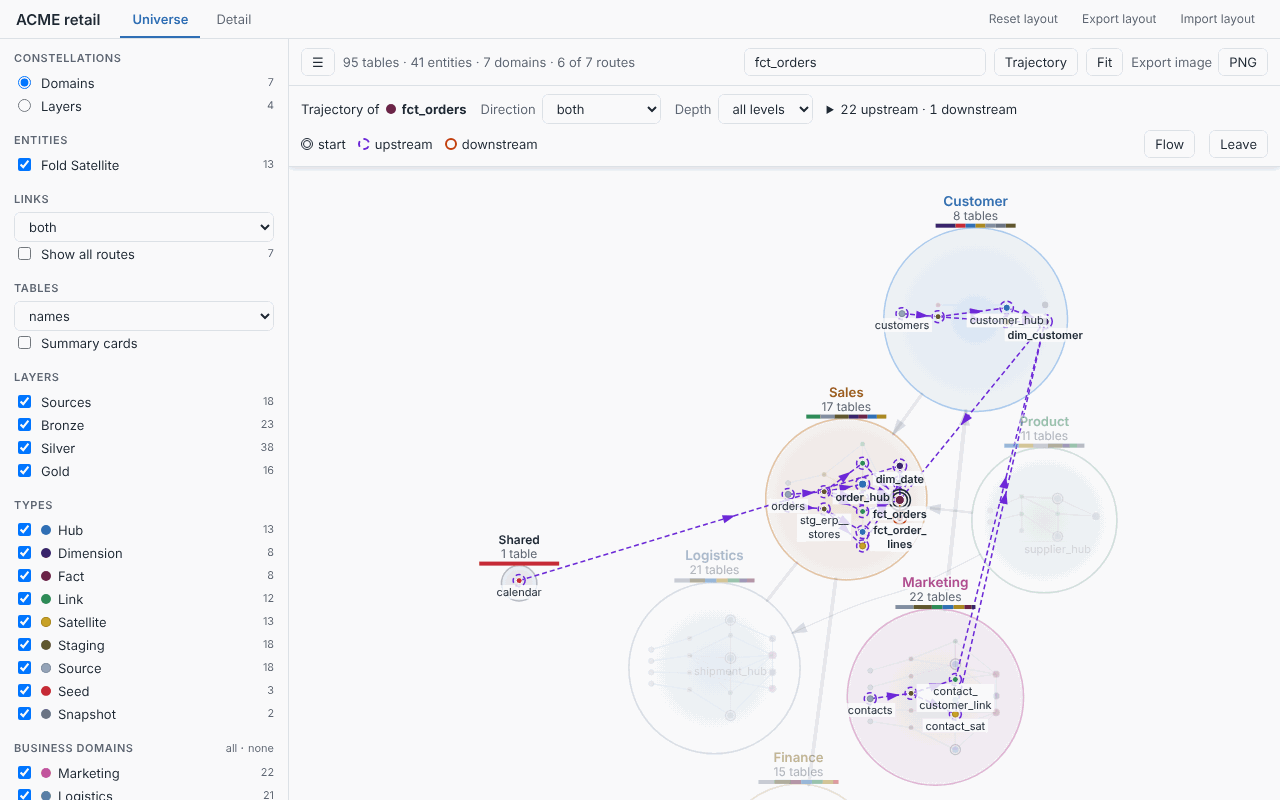
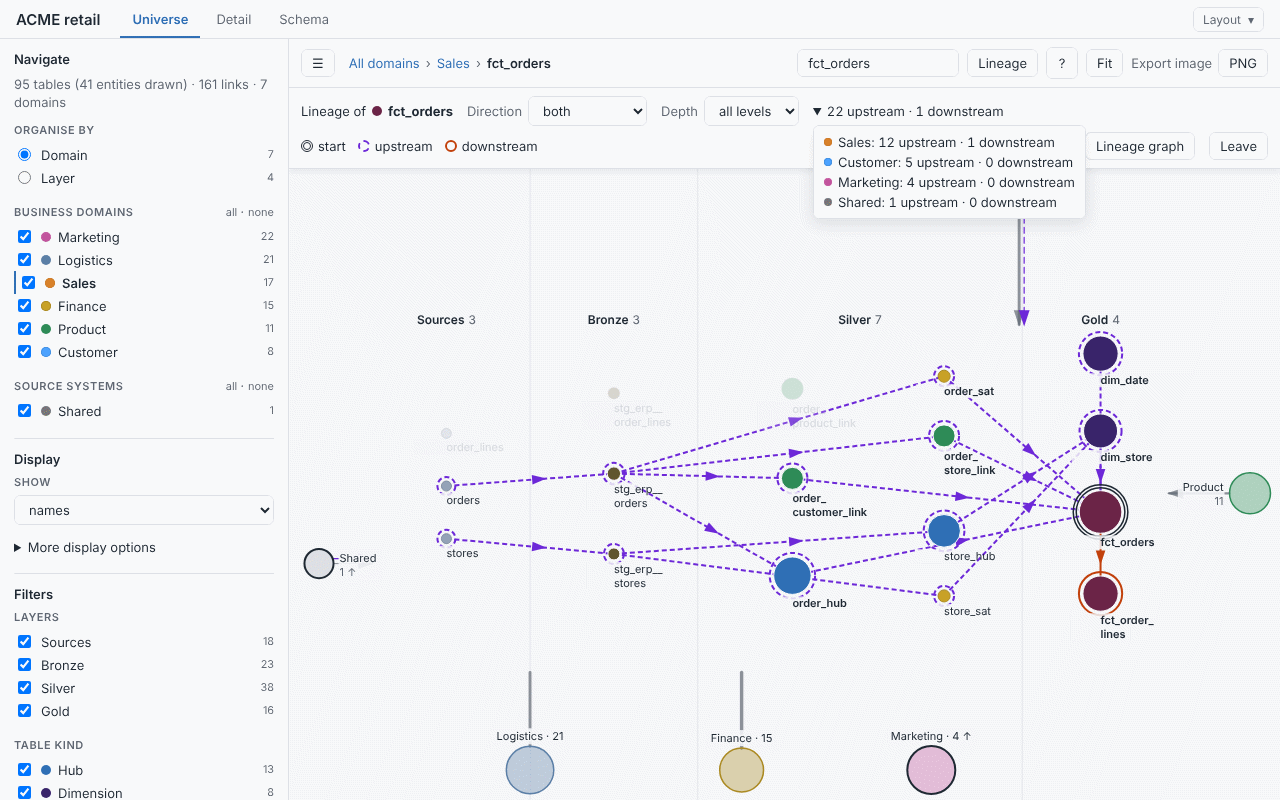
docs(docs): retake the screenshots for M9 and add three new ones
The images of docs/images showed the pre-M9 page (old words, no map
landing, click-starts-lineage). The ten are retaken with the current
page and three are added from the large project: the table panel
inside Vehicle, the Schema tab on Vehicle at key columns and the Print
dialog with its size statement. The user guide references them, its
captions follow the new states; the images README gives each recipe.
Progress, roadmap and changelog record the M9 close; the UI review's
status lines are final. Approval of the images by the user: pending.

Milestone: M9

Claude-Session: https://claude.ai/code/session_01SqA5qnVCkux94yvj6m2c5x

diff --git a/docs/user-guide.md b/docs/user-guide.md
@@ -783,11 +783,11 @@ Every model, source, seed and snapshot of the project as a star, grouped into on
 - **The same picture every time**: the same project gives the same placement at every generation.
 - **The map of a large project**: a project of more than `universe.map_above` tables (300 by default) opens on a **map**: each domain is a named disc (name, number of tables, bar of kinds), with the dependencies between them, and no star or table name until you go into a domain ([Entering a domain](#entering-a-domain)). A smaller project opens on its stars, as before.
 
-![The Sales domain at the keys level: sources and Bronze on the left, then Silver (hubs, links, satellites), then Gold (dimensions and facts)](images/universe-domain.png)
-
 ### Entering a domain
 
 On the map, **click a domain** (its disc, its card, a row of its card, its name in the panel's Domains list, or zoom into it until it fills the screen) to go into it. Its tables spread over the whole screen in their layer bands, left to right along the data flow, with the layer names and counts as headers above the bands (a header stays at the top while its band is in view). The other domains become small labelled discs at the edges of the screen (**ghosts**), each with a line to the domain you are in when they depend on each other; click one to go into it instead. Inside a domain no link is drawn until you hover or select a table: then its links are, and the ones that leave the domain end on the ghost of the domain they go to. A note at the bottom, "Hover a table to see its links", says so; it is hidden on a touch screen, during a lineage, and when it would cover the name of a ghost. Your choices (Show, fold, Links, filters) hold, and nothing is saved: a page always opens on the map, and dragging is off inside.
+
+![The Sales domain entered, Show set to key columns: the Sources, Bronze, Silver and Gold bands with their headers, the other domains as small discs at the edges with their dependencies](images/universe-domain.png)
 
 - **Where you are**: the line in the toolbar, `All domains › Vehicle › car_hub` (`All layers › Raw vault` when organised by layer). Every part is a button that goes there; the last one frames the place. The counts line moved to the top of the **Navigate** group; it is also the title of the first part.
 - **Back**: `Esc` goes one level back (the table you selected, then the domain), as do the parts of the line and zooming out far enough. Esc does nothing in the search box or in a drop-down list, where it is theirs; a lineage ends with it before the domain does.
@@ -812,7 +812,7 @@ On the map, **click a domain** (its disc, its card, a row of its card, its name 
 
 An option, **off by default**: tick **Summary cards** in the side panel (or set `universe.cards: true` in `dbt-erd.yml` or in a preset file to open with it) and zooming out replaces the swarm of stars of each domain by one **summary card**. Unticked, the map shows stars, names and dependencies at every zoom, a source system is a grey disc of its own and the dependencies of the source systems are not bundled.
 
-![The large example project zoomed out with Summary cards ticked: one card per business domain and one group card for the source systems](images/large-cards.png)
+![The large example project at opening with Summary cards ticked: one card per business domain and one group card for the source systems](images/large-cards.png)
 
 - **What a card says**: the name (in the domain's colour), `299 tables · 152 entities` (entities only while the descriptive tables are folded), then one row per layer in flow order (one per domain when grouping by layer, with its colour dot): the label, a bar split by kind in the order of the Table kind list (the widest row fills the bar; a kind is never thinner than 2 px) and the number of tables; then **Main tables**, up to five core tables with the most relations, each with its kind dot. A card with no core table (a source system) shows no main table. Every count includes the folded tables and follows the filters.
 - **When it appears**: the card replaces the stars when the reference star (the median core star, or the median star of the highest role present) would be drawn under about 2 px; it is fully drawn there and the stars are fully drawn from about 3 px up, with a crossfade in between. On a screen too narrow to tell stars apart, or after zooming out past **Fit**, even a small project shows cards. Unticking **Summary cards** (or leaving `universe.cards` at `false`) turns the cards off at every zoom; the hidden text summary below stays.
@@ -830,7 +830,7 @@ An option, **off by default**: tick **Summary cards** in the side panel (or set 
 - **Hover or focus**: pointing at a domain, or hovering or focusing its row in the panel (Tab to the row), draws **all** its dependencies, keeps its neighbours bright and dims the rest. Hovering a dependency gives its tooltip: its ends (upstream first), its relations and lineage links (only those **Links** counts), who reads whom, and for a bundled dependency the systems it sums.
 - **Screen readers**: the hidden summary lists the source systems as one block and, for each domain, every dependency with its counts and direction.
 
-![The large example project at opening, summary cards off: the seven source systems apart on the left, the five business domains along the data flow, and the dependencies between them](images/large-overview.png)
+![The large example project at opening, on its map (summary cards off): the seven source systems apart on the left as named discs, the five business domains along the data flow, and the dependencies between them](images/large-overview.png)
 
 ### Entities: descriptive tables folded into their parent
 
@@ -869,6 +869,8 @@ A **click** (or a tap) on a table opens its **panel** on the right of the map (a
 
 `Esc` closes the panel first; the next `Esc` goes up one level as before (the lineage, then the domain). A click on the empty background closes it without doing anything else; a click on another table shows that table instead; a double-click opens the Detail tab. During a lineage, a click on a table of the lineage opens its panel over the lineage, which stays: its **Lineage** button moves the lineage to that table. The panel never moves or resizes the map (a table under it is panned clear), is not part of an exported image, is announced to screen readers, and is never saved.
 
+![The Vehicle domain of the large example project entered, with the panel of belt_hub open: its kind, domain and layer, its key column, the eight tables that reference it (two in other domains), its upstream table and the four satellites drawn inside it; its links drawn on the map, two of them ending on the Account and Activity discs](images/large-panel.png)
+
 ### Lineage
 
 Where a table's data comes from (upstream) and where it goes (downstream), following `ref` / `source` lineage only, whatever **Links** shows.
@@ -880,7 +882,7 @@ Where a table's data comes from (upstream) and where it goes (downstream), follo
 - **Leave**: **Leave**, `Esc` (the next `Esc` leaves the domain), or a click on the background.
 - **Limit**: only tables in the universe scope (`universe.select` / `exclude`) are in the chain. A chain that goes through an excluded table stops there, and the page cannot tell.
 
-![The lineage of fct_orders: 22 tables upstream across four domains, 1 downstream](images/trajectory.png)
+![The lineage of fct_orders inside the Sales domain: 22 tables upstream across four domains (the counts opened, one line per domain), 1 downstream; the upstream tables of other domains are counted on their discs at the edges](images/trajectory.png)
 
 ### Lineage graph
 
@@ -910,9 +912,9 @@ The entity-relationship diagram of one group of tables, drawn by Graphviz.
 - **Show**: **key columns** by default (columns matching `key_columns`, plus every column used by a relation, in bold), or **all columns**. Hover a table for its dbt description.
 - **Highlight**: click a table to highlight its links; type in **Highlight…** to mark tables by name.
 
-![The detail view of the sales group with facts and dimensions unticked: hubs on the left (the customer and product hubs of other groups dashed), their links and satellites on the right](images/detail-vault.png)
+![The detail view of the Sales domain with facts and dimensions unticked: hubs on the left (the customer and product hubs of other domains dashed), their links and satellites on the right](images/detail-vault.png)
 
-![Focus on dim_customer in the customer group with all columns: dim_country, the table it refers to, on the left](images/detail-focus.png)
+![Focus on dim_customer in the Customer domain with all columns: dim_country, the table it refers to, on the left](images/detail-focus.png)
 
 ## The Schema tab
 
@@ -928,11 +930,15 @@ The third tab, **Schema**, draws a part of the project as classic entity-relatio
 - **From the Universe**: showing the tab after entering a domain (or a layer, when organised by layer) in the Universe selects that scope, and a table you selected there is framed and selected in the sheet. Your own choice of scope stands until the Universe location changes.
 - **Export image** (PNG, SVG, `<page title>-schema.png`): the visible part of the sheet, chips included; the minimap, the sticky heads, the tooltip and the chip list are not in it. **Layout > Reset** is disabled here ("Nothing to reset: this sheet is computed"); nothing about this tab is saved.
 
+![The Schema tab on the Vehicle domain of the large example project, key columns: the Staging and Raw vault columns with their heads, each hub beside the satellites and links that point at it, the minimap at the bottom right](images/large-schema.png)
+
 Sizes on the large example (1,419 tables): the whole project at key columns is a sheet of about 6,300 × 14,700 units (1 unit = 1 screen pixel at the reading size); it opens in about 0.1 s.
 
 ### Printing the schema
 
 **Print…** (Schema toolbar, after the image export) opens a dialog for the scope on screen. It says, before anything is printed, **what the scope needs on paper at the text size you want**, for example "Vehicle with key columns needs 1.14 m × 0.61 m at 7 pt (0.70 m²)". The text size is the one number that matters: **Minimum text size** (default 7 pt, 5 to 14) is the size of the smallest text of the drawing (rows, types, counts); headers and titles are larger. A bigger scope at a given size simply needs more paper, and the dialog says how much. Choose:
+
+![The Print dialog for the Vehicle domain: what it needs on paper at 7 pt, the verdict for one A0 sheet and the smallest single sheet, then Show, Minimum text size, Output, Paper and Orientation](images/large-print.png)
 
 - **Show**: names, key columns or all columns. All columns are offered for one domain, or a scope of at most 300 tables; for a bigger scope the option is disabled with its reason (choose a domain as the scope).
 - **Output**, **One sheet** (a poster) or **Tiles** (a set of ordinary sheets).

diff --git a/docs/images/README.md b/docs/images/README.md
@@ -1,19 +1,22 @@
 # Documentation screenshots
 
-Screenshots of the page of the example project `examples/acme_retail` and of the generated large project (`tests/large_project.py`), used by the README and `docs/user-guide.md`. The seven acme_retail images were approved by the user on 2026-11-05 (M6.1, design note `docs/architecture/2026-11-05-m6.1-documentation.md` § 7); the retake of 2026-11-15 and the three `large-*` images: approved: pending (user). Budget, checked by `tests/unit/test_docs.py`: each PNG at most 200 kB, the folder at most 1.2 MB, every image referenced by a document.
+Screenshots of the page of the example project `examples/acme_retail` and of the generated large project (`tests/large_project.py`), used by the README and `docs/user-guide.md`. The seven acme_retail images were approved by the user on 2026-11-05 (M6.1, design note `docs/architecture/2026-11-05-m6.1-documentation.md` § 7); the retakes of 2026-11-15 and 2026-11-17 (M9 close) and the `large-*` images: approved: pending (user). Budget, checked by `tests/unit/test_docs.py`: each PNG at most 200 kB, the folder at most 1.2 MB, every image referenced by a document.
 
 | File | View and state | Used in |
 |---|---|---|
 | `universe-overview.png` | acme_retail, universe at opening (Fit), names level, every domain, summary cards off (default), satellites folded into their hubs | README, user guide § What dbtscope is |
-| `universe-domain.png` | acme_retail, Sales domain framed as a double-click does, keys level | user guide § The universe view |
-| `trajectory.png` | acme_retail, trajectory of `fct_orders`, both directions, all levels, then Fit | § Trajectory |
-| `flow.png` | the flow of that trajectory, Fit | § Flow |
-| `detail-vault.png` | acme_retail, detail, group `sales`, key columns, kinds Fact and Dimension unticked, Fit then zoomed out one wheel step; the whole window (1280 × 800), every table whole | § The detail view |
-| `detail-focus.png` | acme_retail, detail, group `customer`, focus on `dim_customer`, direct links, all columns, Fit then zoomed out three wheel steps | § The detail view |
+| `universe-domain.png` | acme_retail, Show `key columns`, then a click on the Sales disc: the domain entered (bands with their headers, the other domains as discs at the edges) | user guide § Entering a domain |
+| `trajectory.png` | acme_retail, search `fct_orders` (enters Sales), **Lineage** (both directions, all levels), **Fit**, the counts opened | § Lineage |
+| `flow.png` | the lineage graph of that lineage, Fit | § Lineage graph |
+| `detail-vault.png` | acme_retail, detail, domain `sales`, key columns, kinds Fact and Dimension unticked, Fit then zoomed out one wheel step; the whole window (1280 × 800), every table whole | § The detail view |
+| `detail-focus.png` | acme_retail, detail, domain `customer`, focus on `dim_customer`, direct links, all columns, Fit then zoomed out three wheel steps | § The detail view |
 | `small-screen.png` | acme_retail, universe at 390 × 844, touch, panel closed | § Zoom, pan and touch |
-| `large-overview.png` | large project, universe at opening (Fit), links `both`, names level, summary cards off (default): the seven source systems apart on the left, the five business domains along the flow, routes between them | user guide § The universe view, Source systems and routes |
-| `large-detail-skeleton.png` | large project, Detail tab at opening: group `vehicle` (the largest, 277 tables), satellites folded (the skeleton: 138 tables drawn), key columns, Fit | user guide § The detail view, Large groups, folded |
-| `large-cards.png` | large project, the same overview with **Summary cards** ticked: one card per business domain and the group card of the source systems | user guide § The universe view, Summary cards |
+| `large-overview.png` | large project, universe at opening: the map (named discs, M9.2), links `both`, summary cards off (default): the seven source systems apart on the left, the five business domains along the flow, the dependencies between them | user guide § Source systems and dependencies |
+| `large-detail-skeleton.png` | large project, Detail tab at opening: domain `vehicle` (the largest, 277 tables), satellites folded (the skeleton: 138 tables drawn), key columns, Fit | user guide § The detail view, Large groups, folded |
+| `large-cards.png` | large project, the same opening with **Summary cards** ticked: one card per business domain and the group card of the source systems | user guide § Summary cards |
+| `large-panel.png` | large project, Vehicle entered by a click on its disc, then a click on `belt_hub`: its table panel open, its links drawn | user guide § The table panel |
+| `large-schema.png` | large project, Schema tab, scope Vehicle, Show `key columns`, as the tab opens it (reading size on the first cell) | user guide § The Schema tab |
+| `large-print.png` | large project, the same Schema tab, then **Print…**: the dialog as it opens (size statement, verdict, recommendation) | user guide § Printing the schema |
 
 ## Retaking them
 
@@ -38,6 +41,8 @@ All ten were taken the same way on 2026-11-15 (after M8: roles, entities, summar
 
 Nine of the ten were retaken again on 2026-11-15 with the page of D-082 (counts lines that wrap, constellation labels kept inside the canvas and off neighbouring discs, labels on a halo over the routes, room for the source-system labels, Fit framed below the trajectory bar), same states and scripts; `flow.png` was pixel-identical and kept. Approval of the retake: pending (user).
 
+All thirteen were taken on 2026-11-17 at the M9 close (M9.1 words, the map landing of the large project, entering a domain, the table panel, the Schema tab and Print), with the states above, by `shoot.py` and `final.py` kept in the session scratchpad. Playwright states that changed: Show is the select `#u-detail`, the cards box `#u-cards-box` sits in **More display options** (`#u-more-t`, closed again and the panel scrolled back to the top before the shot); `universe-domain.png` clicks the Sales disc at 0.45 r below its centre (a click enters a domain, M9.2); `trajectory.png` searches `fct_orders` in `#u-q` (Enter, which enters Sales), clicks `#u-traj`, `#u-fit` and opens `#u-tj-sum`; `flow.png` then clicks `#u-tj-flow` and `#f-fit`; the detail images choose the domain in `#d-group`; `large-panel.png` clicks the Vehicle disc, then the star of `belt_hub` (`views.universe.geometry().tables`, `camera()`); `large-schema.png` clicks the Schema tab, selects `domain:vehicle` in `#s-scope` and `keys` in `#s-level`; `large-print.png` then clicks `#s-print-btn`. Optimisation, to keep the folder under its 1.2 MB budget: `detail-focus` lossless; `large-panel` and `large-detail-skeleton` on a 256-colour palette without dithering (flat colours, no visible change); the others 256 colours with dithering (the discs' gradients band without it). Approval of this retake: pending (user).
+
 ## The large project
 
 `large-*.png` come from the generated project of `tests/large_project.py` (1,419 tables, 7 source systems, 5 business domains, its own `dbt-erd.yml` with `LARGE_CONFIG`, no `universe.cards`, so the cards are off at opening). Build and open it like this (the writer, `write_large_project(folder)`, is run from `tests/` because it imports `conftest`):
@@ -51,6 +56,9 @@ write_large_project(Path('$SCRATCH/large'))")
 uv run dbtscope --project-dir "$SCRATCH/large" --no-parse --no-open --offline -o "$SCRATCH/large-offline.html"
 ```
 
-- `large-overview.png`: open the page at 1280 × 800, device scale 1; wait 3 s for the layout; move the pointer to the empty part of the toolbar; take the window.
-- `large-cards.png`: tick `#u-cards-box` on the same page, move the pointer back to the toolbar, wait 2.5 s, take the window.
+- `large-overview.png`: open the page at 1280 × 800, device scale 1; wait 3 s for the layout; move the pointer to the empty part of the toolbar; take the window (the page opens on its map, M9.2).
+- `large-cards.png`: open **More display options**, tick `#u-cards-box` on the same page, close the group and scroll the panel to the top, move the pointer back to the toolbar, wait 2.5 s, take the window.
 - `large-detail-skeleton.png`: on a fresh page click the Detail tab, wait until both export buttons are enabled and 2.5 s more (the group is `vehicle`, nothing to choose), move the pointer to the left of the toolbar, take the window.
+- `large-panel.png`: on a fresh page wait 2.5 s, click the Vehicle disc (0.45 r below its centre), wait 1.5 s, click the star of `belt_hub`, wait 1 s, move the pointer to the toolbar, take the window.
+- `large-schema.png`: on a fresh page click the Schema tab, select `domain:vehicle` in `#s-scope` and `keys` in `#s-level` (1.5 s after each), move the pointer to the left of the toolbar, take the window.
+- `large-print.png`: on that page click **Print…** (`#s-print-btn`), wait 1.5 s, take the window (the dialog opens on its recommendation, the Show select focused).

diff --git a/docs/progress.md b/docs/progress.md
@@ -45,14 +45,15 @@ Maintained by the `/build-roadmap` skill. Branch: a feature branch per session, 
 | M9.3 Table panel | done | | 2026-11-17. Built per `docs/architecture/2026-11-17-m9.3-table-panel.md` (D-091). Assets only; payload, config, layout and storage keys unchanged (every `payloads/*.json` byte-identical, `expected.json` regenerated once). A click, a search or the return from the Detail tab opens the panel (`openPanel`, `renderPanel`, `panelNeighbours`, `visibleArea`, `common.js detailIndex`); Esc chain panel, lineage, domain, map; Lineage in two clicks (table, panel button). Opens in 5.7 ms median, 14 ms worst on the large project (budget 50 / 100). Tests: `tests/browser/test_table_panel.py`; the single-click-starts-lineage tests were adapted. **Next: M9.4.** |
 | M9.4 Schema tab | done | | 2026-11-17. Built per `docs/architecture/2026-11-17-m9.4-schema-tab.md` (D-092 to D-094; "As built" lists the deviations). Third tab: scope (whole project, domain, layer, current filters), Show level, layers × domains lanes, cells dealt by the extracted `common.js gridDeal`, own sheet model (`schema.js sheetModel`) and one SVG emitter (`sheetSvg`) for screen, export and M9.5's print, virtualised on screen, wheel scrolls / ctrl+wheel zooms (`zoomOn` `scroll` option), keys, minimap, sticky heads, chips, search, breadcrumb, follow of the universe location; nothing saved. Payload: `UniverseKind.bg` (last key; every reference payload equals the old one plus `bg`, `expected.json` regenerated). **Measured** on the large project at 1280 × 800 (5 runs): open 114 ms median, 129 worst (budget 3,000); whole project at the three levels 74 to 95 ms; every scope × level at most 66 ms (budget 1,000); Fit on 1,419 boxes 23 to 29 ms; scroll and zoom frames at the 16.7 ms pace, worst 25 ms; re-cull 4 ms. Whole-project sheet at keys 6,318 × 14,679 u (1.42 × 3.30 m at 7 pt, M9.5). **D-094 set from the measure: 300 tables, 16 relations between cells** (the provisional 150 was far above the 16 to 40 range that separates the scopes). Tests: `tests/browser/test_schema.py`, `tests/browser/test_schema_perf.py`. **Next: M9.5 (print).** |
 | M9.5 Print | done | | 2026-11-17. Built per `docs/architecture/2026-11-17-m9.5-print.md` (D-095, D-096; "As built" lists the deviations and measures). Schema tab **Print…**: dialog (needs block, Show, minimum text size, one sheet / tiles, paper, orientation, custom size), one-sheet poster (fitted or named paper), A4 / A3 tiles with 10 mm overlap, crop marks, ticks, names A1…, index pages and assembly map, kind tags and legend for black and white, paged in JavaScript so the page count is known; new `render/assets/print.js`, small extensions of `schema.js` (`kindTags`, `tags`, `ids: false`, `bare`) and `common.js` (`num` decimals). Payload: `PagePayload.generated_at` (`generatedAt`, last key; the manifest's `metadata.generated_at`), reference pages regenerated (domain commit: only that key; print commit: assets). **Measured** (large project, headless Chromium, 5 runs): whole project at keys 7 pt 1.46 × 3.38 m, A4 tiles 9 × 13 (80 printed, 37 blank, 8 index pages, 88 pages) ready in about 0.5 s (budget 3 s), plan 18 ms (budget 100); Vehicle 1.14 × 0.61 m, 7 × 3 tiles, 21 pages, PDF 1.3 MB in 0.5 s; **Chromium writes pages of any size (200 m tested): `MAX_SIDE` stays 5,080 mm, the viewers' limit (D-095)**. Tests: `tests/browser/test_print.py`, `test_print_perf.py`, `tests/unit/test_page.py`. **Next: M9 close (screenshots, review), then the roadmap's "Later" items.** |
-| Documentation round after M8 | done, approval pending | | 2026-11-15. The seven acme_retail screenshots retaken (cards off, satellites folded, the detail as the whole window) and three `large-*` images added (overview, cards, detail skeleton), `docs/images/README.md` updated; the three new images referenced in the user guide, the `universe-overview` caption corrected; README no longer says CI runs on three systems (D-053); roadmap, changelog and `CLAUDE.md` "What this is" updated. The guide and how-it-works were found true against the code for M8. Approval of the screenshots by the user: pending. |
+| M9 close: documentation round | done, approval pending | | 2026-11-17. M9 documentation round: screenshots retaken, approval by the user pending. The ten images of `docs/images/` retaken with the current page (M9.1 words, the large project's map landing, a click that enters a domain, the Detail tab's Domain select) and three added from the large project: `large-panel.png` (Vehicle entered, table panel of `belt_hub`), `large-schema.png` (Schema tab, Vehicle, key columns), `large-print.png` (the Print dialog and its size statement); referenced in the user guide (§ The table panel, The Schema tab, Printing the schema); `universe-domain.png` moved to § Entering a domain. Captions changed: `universe-domain`, `trajectory` (the lineage is shown inside Sales, the counts opened), `large-overview` (the map), `large-cards`, `detail-vault` and `detail-focus` (domain, not group). Recipe and states in `docs/images/README.md`; 13 PNGs, 1.16 MB (budget 1.2 MB). Seen while retaking: inside Vehicle at 1280 × 800 the Staging band header shows its count (5) but its name sits under the source-system ghosts on the left. This retake also covers the M8 screenshot points below (one approval for both rounds). |
+| Documentation round after M8 | done, approval pending | | 2026-11-15. The seven acme_retail screenshots retaken (cards off, satellites folded, the detail as the whole window) and three `large-*` images added (overview, cards, detail skeleton), `docs/images/README.md` updated; the three new images referenced in the user guide, the `universe-overview` caption corrected; README no longer says CI runs on three systems (D-053); roadmap, changelog and `CLAUDE.md` "What this is" updated. The guide and how-it-works were found true against the code for M8. Approval of the screenshots by the user: pending; the images were retaken again at the M9 close (2026-11-17), one approval for both. |
 
 ## Open points
 
 - M9.2: names inside a layer of several hundred tables (layer mode, Raw vault 47 of 388 and Staging 34 of 277 at Fit, the brief's target being half): its domain bands cannot share columns, so the names need more room than the stage holds even at the smallest scale `NAV.K_NAMES`. Zooming in names the rest. Also seen in layer mode Sources: a few drawn names touch (accounts / notes, calendars / parts): the name competition culls overlaps by the estimated text width, and rows of adjacent columns sit close; not investigated further. A follow-up could let the spread exceed the stage and scroll, or name by priority (`labelScore`) with a "+ N names" hint; see the roadmap. Vehicle names at Fit: 76 of 153 (49.7 %). Also: the "Hover a table to see its links" note (`#u-inside-note`) is hidden in Vehicle at 1280 × 800 because a ghost's name would sit under it (by design, D-088; the user may prefer another place). Done in M9.3.
 
-- M9.1: the screenshots of `docs/images/` show the old words (Trajectory, Flow, Routes between constellations, Types, Tables, the old panel order); they are retaken at the M9 close with the user's approval (design note § Impacts). The user guide's captions already use the new words.
-- M8 close (user, 2026-11-13): M8 is merged into `main` without retaking the screenshots of `docs/images/`; they are retaken, with the user's approval, in a later documentation round (roadmap "Later"). The M8.1 to M8.5 points below about screenshots refer to that round.
+- M9 close: the screenshots of `docs/images/` were retaken on 2026-11-17 (row "M9 close: documentation round"); the user's approval is pending. Inside Vehicle at 1280 × 800 the Staging band header's name is hidden under the source-system ghosts (its count shows); a question for the user or a later fix.
+- M8 close (user, 2026-11-13): M8 is merged into `main` without retaking the screenshots of `docs/images/`; they were retaken in the documentation round after M8 (2026-11-15) and again at the M9 close (2026-11-17), which covers the M8.1 to M8.5 points below about screenshots; only the user's approval of the M9 close set remains.
 
 - M8.6: with cards off at 360 px on the large project a business label reaches up to 25 px into a neighbouring disc (`claim` over `auction`), four times the 6 px the design note asked for, and three of twelve labels are skipped for lack of room (D-081, Built). A question for the user: accept this on narrow screens, or ask for more room between constellations.
 - M8.5: the `select` of `data_vault` stays the raw vault (D-077): dimensions and facts are not drawn by the preset's detail; a project adds `dim_*` / `fct_*` in its own `select`. A question for the user at the M8 close.

diff --git a/docs/briefs/2026-11-17-ui-review.md b/docs/briefs/2026-11-17-ui-review.md
@@ -29,7 +29,7 @@ Evidence: double-click on a table switches to Detail with `group = vehicle`, `fo
 Recommendation: show a "← Universe" link (or the same breadcrumb) in the Detail toolbar when the detail was opened from the universe; on return, mark the table (the search ring already exists). Opening Detail from a framed constellation should preselect that group. Say what each tab is for in the tab itself (title attributes: "Universe: the map of every table by domain" / "Detail: the ER diagram of one group").
 
 ### 4. Universe panel is a flat stack of 11 blocks in an unhelpful order (major)
-**Status: fixed in M9.1** (Navigate / Display / Filters, "More display options" closed at load, hint moved to the **?** popover, "all (N)" inline; D-085). The Domains rows keep acting as filters until M9.2.
+**Status: fixed in M9.1** (Navigate / Display / Filters, "More display options" closed at load, hint moved to the **?** popover, "all (N)" inline; D-085). Since M9.2 the name of a Domains row goes to the domain and its checkbox keeps filtering (D-089).
 Evidence: panel order is Constellations, Entities, Links, Routes, Show all routes, Tables, Summary cards, Layers, Types, Domains, Source systems, then the hint (1,195 px tall on the large project; `large-1-open.png`). It mixes four kinds of control: grouping (Constellations), display options (Entities, Links, Routes, Tables, Summary cards), filters (Layers, Types, Domains) and help. The most-used filter, Domains, is below the fold; "Show all routes 43" and "Entities Fold… 440" carry unexplained numbers. In layer mode the Domains list stays, but "Show all routes" disappears silently.
 Recommendation: three titled groups in this order: "Navigate" (Constellations by domain/layer, then the Domains/Source systems list as the table of contents, with counts), "Display" (Detail level, Entities, Links, Routes, Cards, in one collapsible `<details>`, closed by default except Detail level), "Filters" (Layers, Types). Move the hint out of the panel into a "?" popover near the toolbar, or a first-visit caption on the canvas. Collapse "Show all routes" into the Routes line as a link.
 
@@ -49,7 +49,7 @@ Evidence: the visual metaphor (discs with dots) is readable and the first view i
 Recommendation: keep "Universe" and "Detail" as tab names (they are the page's identity) but rename the verbs and nouns that have a standard equivalent: "Trajectory" → "Lineage" (the bar already says "16 upstream · 0 downstream"), "Flow" → "Lineage graph", "Routes between constellations" → "Dependencies between domains", and in the UI say "domain" in place of "constellation" wherever the grouping is by domain (use "layer" in layer mode). The "constellation" word then only survives in docs. This is a string-table change (`L`/`T`), no layout change.
 
 ### 7. Detail view on a large group: legible structure but unsorted names and a double-row toolbar (minor)
-**Status: partly fixed in M9.1** (meta wording "138 of 277 tables shown · 139 drawn inside", "dashed outline = other domain", `aria-label`s on the inputs). **Deferred**: visible labels on the two inputs (the detail toolbar already wraps to several rows at 360 px) and bigger hub names at Fit (capping the skeleton is a layout change, not a wording one); the breadcrumb is M9.2.
+**Status: partly fixed in M9.1** (meta wording "138 of 277 tables shown · 139 drawn inside", "dashed outline = other domain", `aria-label`s on the inputs). **Deferred**: visible labels on the two inputs (the detail toolbar already wraps to several rows at 360 px) and bigger hub names at Fit (capping the skeleton is a layout change, not a wording one); the breadcrumb was built in M9.2 (D-089).
 Evidence: `large-2-detail.png`: the skeleton for Vehicle (138 of 277 tables) is a good overview but the names are 8 px at Fit and the table/column "+ N folded tables · Satellite" text is unreadable at Fit; the toolbar takes two rows at 1280 (meta wraps, export drops to a second row); "dashed: other group" legend is unclear ("dashed" what?); two inputs "Focus on a table…" and "Highlight…" are visually identical, and there are two ways to focus (typing and double-click) but one is an input and the other a gesture with its hint at the bottom of the panel.
 Recommendation: put hub names in a bigger type at Fit by capping the skeleton to the top N hubs per column; reword the meta to "138 of 277 tables shown · 139 folded · dashed outline = other domain"; label the two inputs ("Focus on" / "Highlight") with visible labels, not only placeholders; add the same breadcrumb as in 1.
 
@@ -79,7 +79,7 @@ Evidence: Fit, Export image and the search box are at the right in all three vie
 Recommendation: same verb for the same job: "Find a table" in both views (focus = a way to use it), "Show all" → "Clear focus"; move layout actions into one "Layout ▾" menu (`<details>`) so they stop competing with the tabs.
 
 ### 13. Mobile 360 px (minor)
-**Status: deferred**: no change in M9.1 (acceptable for a desktop-first tool; opening on layers or cards at 360 px is a behaviour change outside the string-table scope). The new controls keep 360 px without horizontal scroll and 44 px targets.
+**Status: deferred**: no change in M9 (acceptable for a desktop-first tool; opening on layers or cards at 360 px is a behaviour change outside the string-table scope). The new controls keep 360 px without horizontal scroll and 44 px targets.
 Evidence: `L-10-mobile.png`: the first view opens with the panel closed and the discs overlap their labels ("raw_dms", "raw_lms" labels stack on neighbouring discs); the toolbar is clean. Reading names is only by zoom.
 Recommendation: acceptable for a desktop-first tool; at 360 px open on the layers grouping (4 big discs) or on cards.
 

diff --git a/docs/roadmap.md b/docs/roadmap.md
@@ -276,6 +276,7 @@ Brief: `docs/briefs/2026-11-17-visualization-optimization.md` (read it in full, 
 - **M9.3 — Table panel (done, 2026-11-17; D-091, design note `docs/architecture/2026-11-17-m9.3-table-panel.md`).** Single click on a table opens a side panel (columns, description, clickable relations, Open in Detail, Lineage); supersedes click-starts-trajectory (D-018).
 - **M9.4 — Schema tab (done, 2026-11-17; D-092 to D-094, design note `docs/architecture/2026-11-17-m9.4-schema-tab.md`).** 3NF-style sheets on a swimlane grid (layers × domains), scroll-first navigation, minimap, inter-lane relation summaries on large scopes (chips above 300 tables or 16 relations between cells, measured). Its sheet model and SVG emitter are what M9.5 prints.
 - **M9.5 — Print (done, 2026-11-17; D-095, D-096, design note `docs/architecture/2026-11-17-m9.5-print.md`).** Paper model with a minimum font size and an announced physical size, one-sheet poster output, tiled A4/A3 sheets with crop marks, coordinates and an index page; kind tags and a legend for black and white; `PagePayload.generatedAt`. Chromium's page-size limit measured: none (the 5,080 mm limit is the PDF viewers').
+- **M9 close (2026-11-17).** All five phases done. Documentation round: the screenshots of `docs/images/` retaken with the M9 page and three added (table panel, Schema tab, Print dialog); approval by the user pending.
 
 Done when: each phase meets the "Done when" list of its section of the brief and the definition of done of `CLAUDE.md`.
 

diff --git a/CHANGELOG.md b/CHANGELOG.md
@@ -6,6 +6,7 @@ All notable changes are listed here, newest first. Format: [Keep a Changelog](ht
 
 ### Documentation
 
+- M9 documentation round: the ten screenshots of `docs/images/` retaken with the M9 page (new words, the large project's map, entering a domain, the Detail tab's Domain select) and three added from the large project (table panel, Schema tab, Print dialog), referenced in the user guide with updated captions.
 - Documentation round after M8: the screenshots of `docs/images/` retaken (acme_retail: cards off, satellites folded) and three added from the large project (overview with source systems and routes, summary cards, detail skeleton), referenced in the user guide; the guide and "How dbtscope works" checked against the code; the README no longer says the CI runs on three systems. Screenshot approval pending.
 
 ### Fixed
